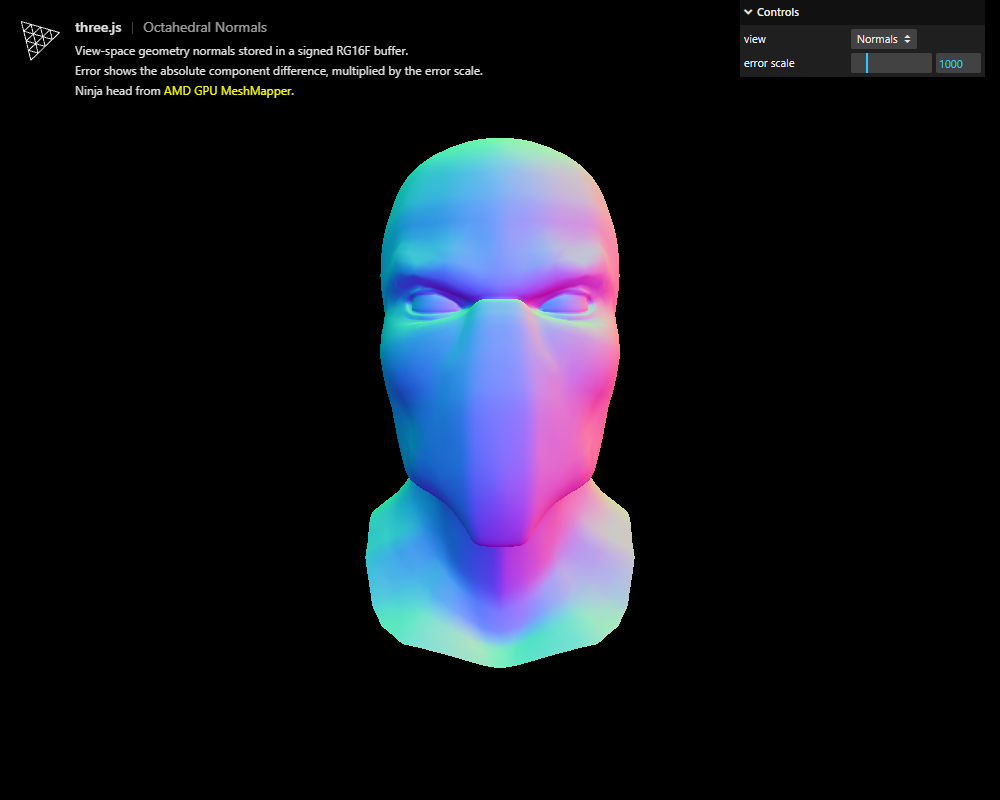
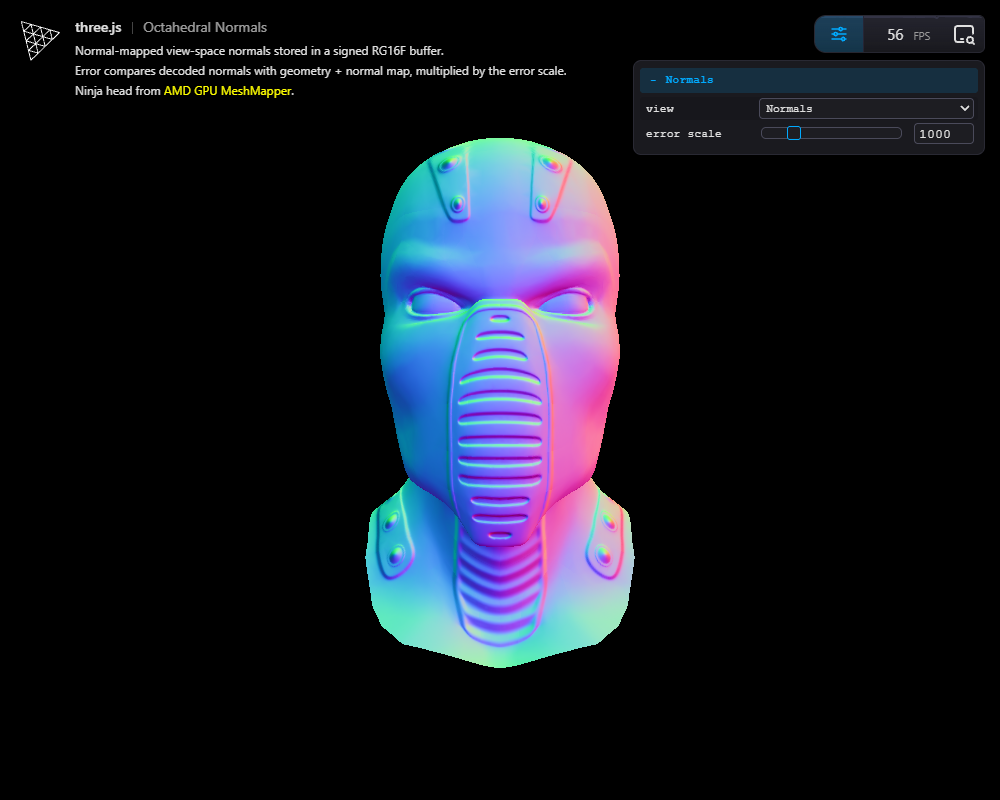
Refresh preview with mapped normals and Inspector controls

diff --git a/examples/webgpu_postprocessing_normals.html b/examples/webgpu_postprocessing_normals.html
@@ -14,8 +14,8 @@
 				<a href="https://threejs.org/" target="_blank" rel="noopener">three.js</a><span>Octahedral Normals</span>
 			</div>
 			<small>
-				View-space geometry normals stored in a signed RG16F buffer.<br />
-				Error shows the absolute component difference, multiplied by the error scale.<br />
+				Normal-mapped view-space normals stored in a signed RG16F buffer.<br />
+				Error compares decoded normals with geometry + normal map, multiplied by the error scale.<br />
 				Ninja head from <a href="https://web.archive.org/web/2024/https://gpuopen.com/archive/gamescgi/amd-gpu-meshmapper/" target="_blank" rel="noopener">AMD GPU MeshMapper</a>.
 			</small>
 		</div>
@@ -34,8 +34,8 @@
 		<script type="module">
 
 			import * as THREE from 'three/webgpu';
-			import { abs, mrt, normalViewGeometry, octDecode, octEncode, output, pass, uniform, vec4 } from 'three/tsl';
-			import { GUI } from 'three/addons/libs/lil-gui.module.min.js';
+			import { abs, mrt, normalView, octDecode, octEncode, output, pass, uniform, vec4 } from 'three/tsl';
+			import { Inspector } from 'three/addons/inspector/Inspector.js';
 			import { OBJLoader } from 'three/addons/loaders/OBJLoader.js';
 			import { OrbitControls } from 'three/addons/controls/OrbitControls.js';
 
@@ -48,6 +48,7 @@
 			async function init() {
 
 				renderer = new THREE.WebGPURenderer();
+				renderer.inspector = new Inspector();
 				renderer.setPixelRatio( window.devicePixelRatio );
 				renderer.setSize( window.innerWidth, window.innerHeight );
 				document.body.appendChild( renderer.domElement );
@@ -71,9 +72,9 @@
 				const scenePass = pass( scene, camera );
 				scenePass.setMRT( mrt( {
 					output,
-					normal: octEncode( normalViewGeometry ),
-					// Keep an independent, full precision reference from the forward pass.
-					reference: vec4( normalViewGeometry, 1 )
+					normal: octEncode( normalView ),
+					// Reference includes the same geometry + normal map used by forward lighting.
+					reference: vec4( normalView, 1 )
 				} ).setClearColor( 'reference', 0x000000, 0 ) );
 
 				const normalTexture = scenePass.getTexture( 'normal' );
@@ -98,7 +99,7 @@
 				renderPipeline = new THREE.RenderPipeline( renderer );
 				renderPipeline.outputNode = views.Beauty;
 
-				const gui = new GUI();
+				const gui = renderer.inspector.createParameters( 'Normals' );
 				gui.add( params, 'view', Object.keys( views ) ).onChange( ( value ) => {
 
 					renderPipeline.outputNode = views[ value ];
@@ -114,7 +115,8 @@
 				const geometry = group.children[ 0 ].geometry;
 				geometry.center();
 
-				const material = new THREE.MeshStandardMaterial( { color: 0xaaaaaa, metalness: 0.15, roughness: 0.6 } );
+				const normalMap = await new THREE.TextureLoader().loadAsync( 'models/obj/ninja/normal.png' );
+				const material = new THREE.MeshStandardMaterial( { color: 0xaaaaaa, metalness: 0.15, roughness: 0.6, normalMap, normalScale: new THREE.Vector2( 1, - 1 ) } );
 				const mesh = new THREE.Mesh( geometry, material );
 				mesh.scale.setScalar( 25 );
 				scene.add( mesh );
